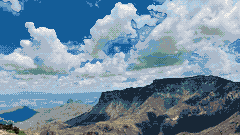
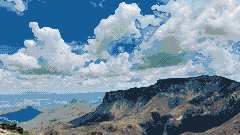
Hero apex right of the card; ms cloud margin; softer hero fills
hero: the world reaches 6 px further left and land.x moves to 50, so the
peak's apex sits at view x ~210, right of the YARAikiba card (ends at 202),
with 6 px spare past the cloud's 40 px of travel. The fill behind the peaks
uses 3x2 patches, and the sky under the ridge is near-plain terrain instead
of blue-grey haze. ms: land.x 28 leaves 4 px past the clouds' travel; the
hawk's palette names match phd.py.

diff --git a/scripts/scene_art/hero.py b/scripts/scene_art/hero.py
@@ -22,6 +22,7 @@ PEAKS = [(1566, 1002), (1597, 983), (1605, 952), (1628, 933), (1655, 914), (1674
 SKY_TOP = 800                         # photo y: the ridge's top is searched below this
 TRAVEL = 40                           # px the cloud bank may slide right
 UNDER = 8                             # rows the peaks run on under the ridge
+PLAIN_TOP = 1036                      # photo y: the near plain (under the haze) starts here
 
 
 def is_ridge(c): return lum(c) < 78 or (lum(c) < 125 and c[2] - c[0] < 28)
@@ -30,13 +31,13 @@ def is_ridge(c): return lum(c) < 78 or (lum(c) < 125 and c[2] - c[0] < 28)
 def is_streak(c): return (c[2] - c[0] >= 75 and lum(c) < 168) or lum(c) > 192   # blue cloud or white
 
 
-def is_haze(c): return 130 < lum(c) < 168 and c[2] - c[0] < 62               # the bare haze and plain
+def is_plain(c): return lum(c) > 95 and c[2] - c[0] < 20                     # the near plain: neutral to tan
 
 
 def is_haze_like(c): return lum(c) > 148 or c[2] - c[0] > 85
 
 
-def index_fill(g, W, H, hole, ok, rng, patch=(4, 3), reach=(4, 60), dy=2):
+def index_fill(g, W, H, hole, ok, rng, patch=(3, 2), reach=(4, 60), dy=1):
     """Fills the hole cells of index grid g (in place) with patches copied, KEY included, from
     cells where ok(x, y) holds, each patch at its own random offset (x within reach, y within
     +-dy): streak and gap patterns carry on into the hole without repeating."""
@@ -94,12 +95,12 @@ def build(world, render, to_world):
     hole = C.dilate(bytearray(1 if streak[i] or pk[i] or ridge[i] else 0 for i in range(W * H)), W, H, 1)
     sky_img = world.copy()
     smooth_fill(sky_img, hole, lambda x, y: y < rt[x], lambda x, y: y)
-    plain = bytearray(1 if not hole[i] and i // W < rt[i % W] and i // W >= y_of(900) and is_haze(src[i]) else 0
+    # below the ridge's top: patches of the near plain (the tan-grey ground under the haze, not
+    # its blue-grey), so what a pan uncovers there reads as terrain
+    plain = bytearray(1 if not hole[i] and y_of(PLAIN_TOP) <= i // W < rt[i % W] - 1 and is_plain(src[i]) else 0
                       for i in range(W * H))
-    p_lo = min(i // W for i in range(W * H) if plain[i])
-    p_hi = max(i // W for i in range(W * H) if plain[i])
     low = bytearray(1 if hole[i] and i // W >= rt[i % W] else 0 for i in range(W * H))
-    tile_fill(sky_img, low, plain, rng, patch=(5, 3), rows=lambda ty: (max(p_lo, min(ty, p_hi - 3) - 2), min(ty, p_hi - 3) + 2))
+    tile_fill(sky_img, low, plain, rng, patch=(4, 2))
     Qsky = list(render(sky_img).get_flattened_data())
 
     Q = list(render(world).get_flattened_data())

diff --git a/scripts/pixel-scenes.py b/scripts/pixel-scenes.py
@@ -27,9 +27,11 @@ SCENES = {
         # A world at 600 px per photo width, the photo's lower right: the phone needs the peak
         # near its top (today's portrait crop is ~610), and the photo below the peak is only
         # ~0.32 x density tall. The desktop is therefore ~1.9x tighter than today: the peak
-        # top-right, above and right of the YARAikiba card, the haze band over it.
-        'density': 600, 'world': (340, 224), 'centre': (0.6266667, 0.7199999),
-        'land': (56, 4), 'port': (206, 10)}),
+        # top-right, its apex right of the YARAikiba card (view x ~210; the card ends at 202), the
+        # haze band over it. The world reaches 6 px further left than the cloud's 40 px of travel
+        # and the seam need.
+        'density': 600, 'world': (348, 224), 'centre': (0.62, 0.7199999),
+        'land': (50, 4), 'port': (214, 10)}),
     'srm':       ('DSC04305.JPG', (0.5, 0.55), (0.5, 0.55)),
     'cognizant': ('DSC04343.JPG', (0.5, 0.55), (0.5, 0.55), {
         # The whole photo at 336 px per photo width (the least that is >= 222 rows tall): the
@@ -41,9 +43,10 @@ SCENES = {
     'ms':        ('IMG_1444.JPG', (0.5, 0.55), (0.5, 0.55), {
         # The whole photo at 300 px per photo width (the least that is >= 222 rows tall with the
         # clouds' 6 px of downward travel): desktop ~1.25x tighter than today, the mesa's skyline
-        # right of the panel as today; the phone keeps today's framing (~1.05x).
+        # right of the panel as today; the phone keeps today's framing (~1.05x). land.x 28 leaves
+        # 4 px spare past the clouds' 24 px of travel at the camera's full drift.
         'density': 300, 'world': (300, 225), 'centre': (0.5, 0.5),
-        'land': (32, 32), 'port': (87, 10)}),
+        'land': (28, 32), 'port': (87, 10)}),
     'phd':       ('DSC04340.JPG', (0.82, 1, 1.8), (0.52, 0, 1.35), {
         # A world at 400 px per photo width (the old crops were 432): the horse is ~72 px wide,
         # so on a phone its rest pose sits inside the middle 90 px of the 120 px view and its

diff --git a/scripts/scene_art/ms.py b/scripts/scene_art/ms.py
@@ -32,7 +32,7 @@ UNDER = (8, 12)                       # rows the mesa's hills run on under the n
 
 # ---------------------------------------------------------------- the hawk (world px)
 HAWK_AT = (150, 40)                   # its default spot; the act flies it about
-INK, BROWN, DKTAN = 21, 19, 11
+DKTAN, BROWN = 11, 21               # phd.py's names for these palette indices
 HAWK = [                              # 11x5 pixel maps, 'd' dark brown, 't' pale underside
     ['d.........d',                   # 1: wings raised (soaring, dihedral)
      '.d.......d.',
@@ -151,6 +151,6 @@ def hawk_sprite():
     frames = [[KEY] * (w * h)]
     for rows in HAWK:
         g = [KEY] * (w * h)
-        C.paint(g, w, 0, 0, rows, {'d': INK, 't': DKTAN})
+        C.paint(g, w, 0, 0, rows, {'d': BROWN, 't': DKTAN})
         frames.append(g)
     return C.Sprite('hawk', w, h, frames, HAWK_AT, 'ridge', 0)
